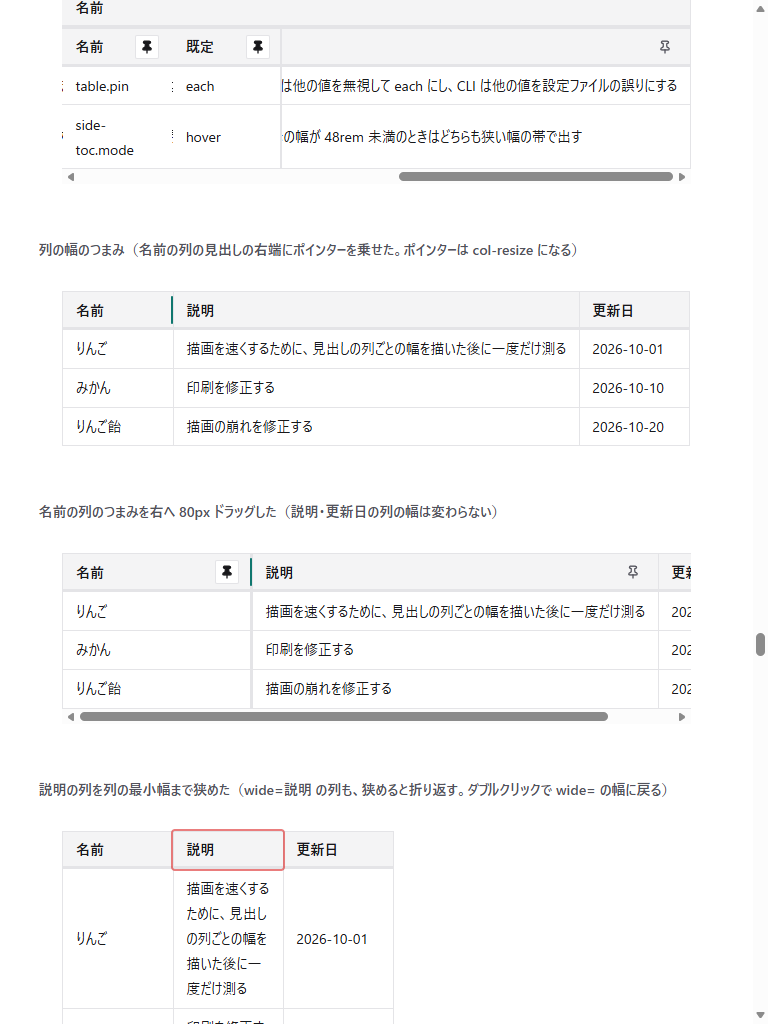
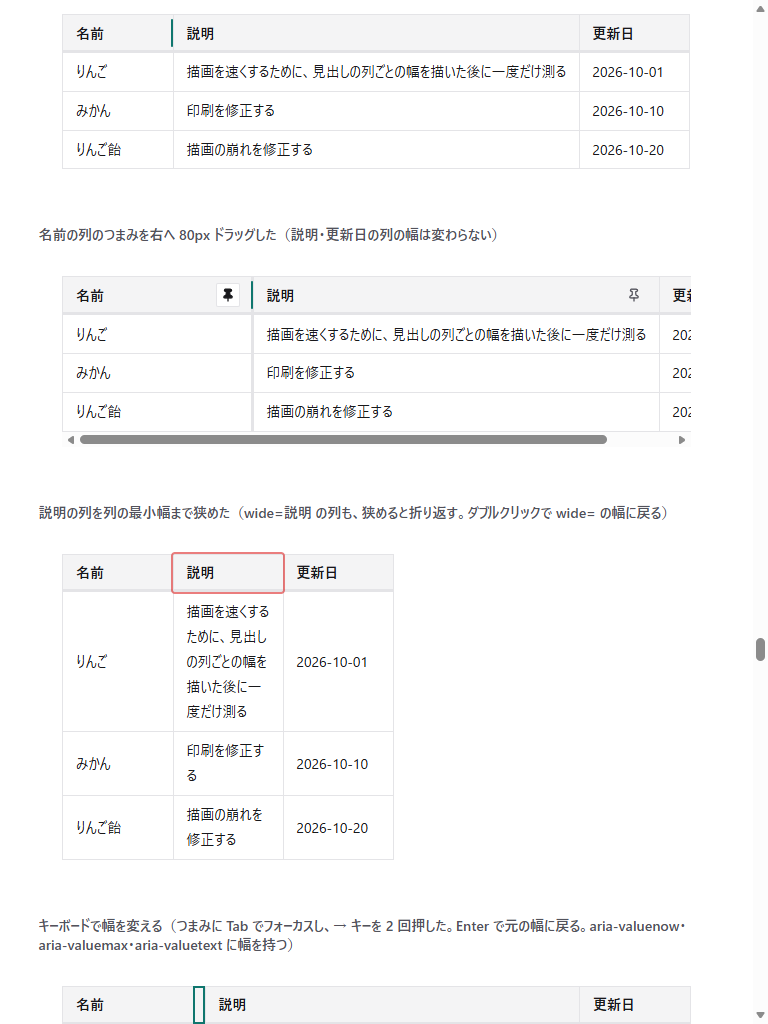
列の幅のモックで、入れた幅を測り直して 1 回で 16px 変わるように修正する (#449)

diff --git a/dev/mock/refs/449/assets/table-resize.js b/dev/mock/refs/449/assets/table-resize.js
@@ -83,9 +83,18 @@
           style.boxSizing === "border-box"
             ? 0
             : ["paddingLeft", "paddingRight", "borderLeftWidth", "borderRightWidth"].reduce((sum, key) => sum + parseFloat(style[key]), 0);
-        const value = outer === null ? "" : `${Math.round(outer - inset)}px`;
-        th.style.width = value;
-        th.style.minWidth = value;
+        const set = (value) => {
+          th.style.width = value;
+          th.style.minWidth = value;
+        };
+        if (outer === null) {
+          set("");
+        } else {
+          // 罫線を重ねて描く表では、セルの外側の幅に入る罫線が半分になるので、入れた後の幅を測って差を足し直す
+          const inner = outer - inset;
+          set(`${inner}px`);
+          set(`${inner + (outer - widthOf(c))}px`);
+        }
         for (const cell of table.querySelectorAll(`[data-col="${c}"]:is(th, td)`)) {
           cell.classList.toggle("is-resized", resized);
         }
